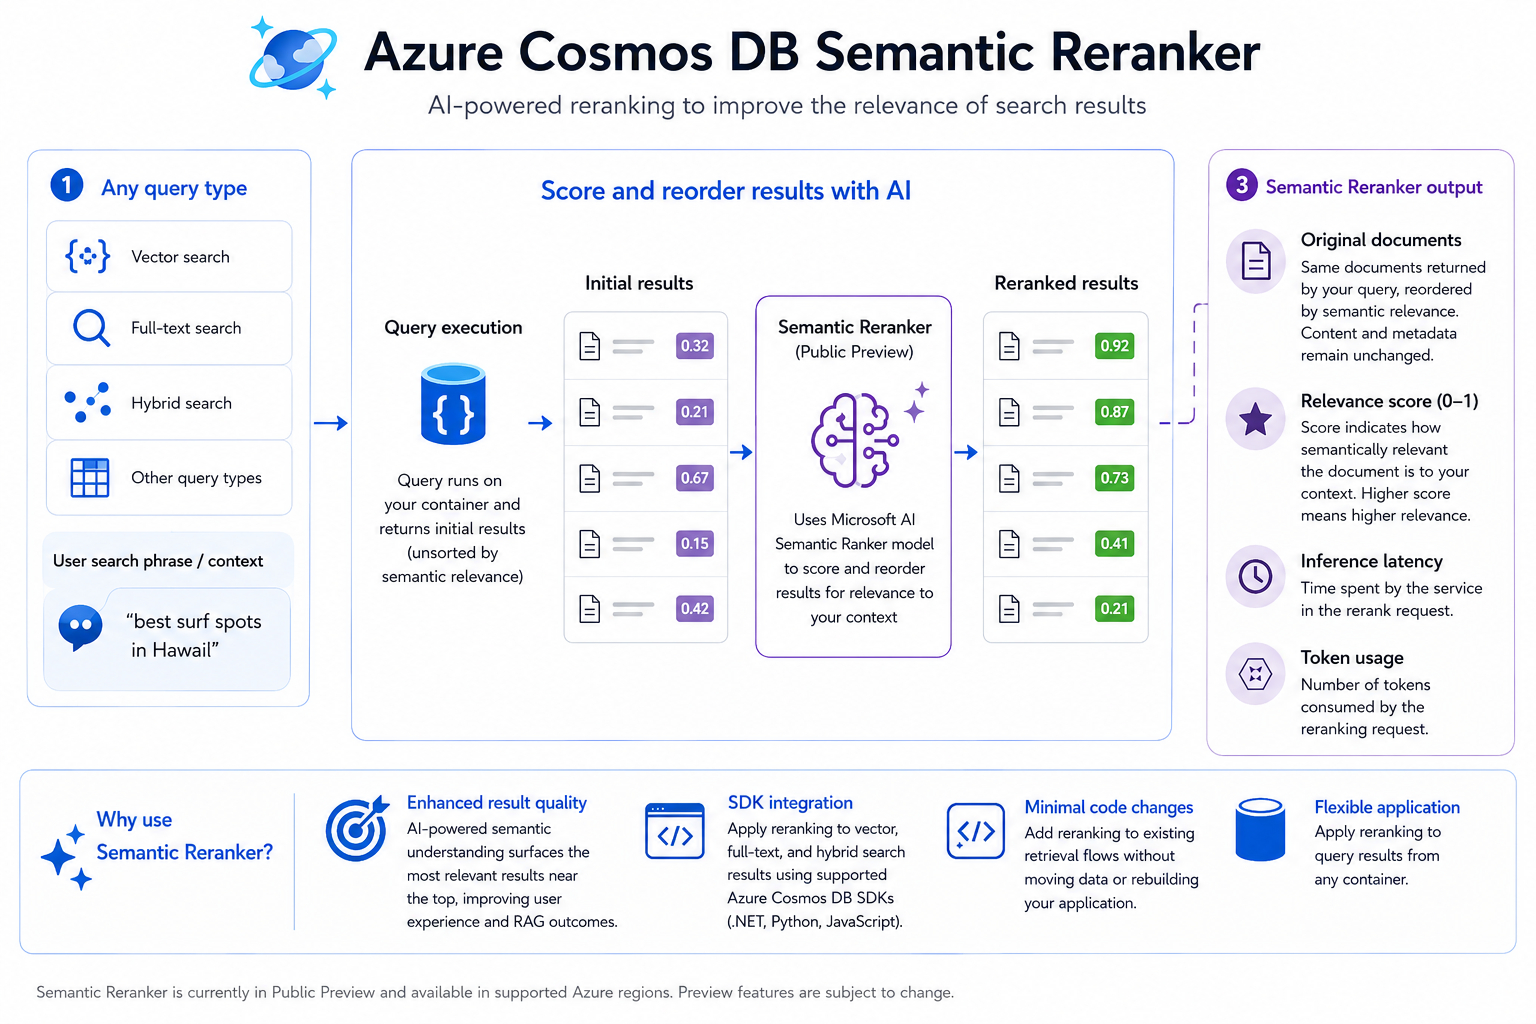
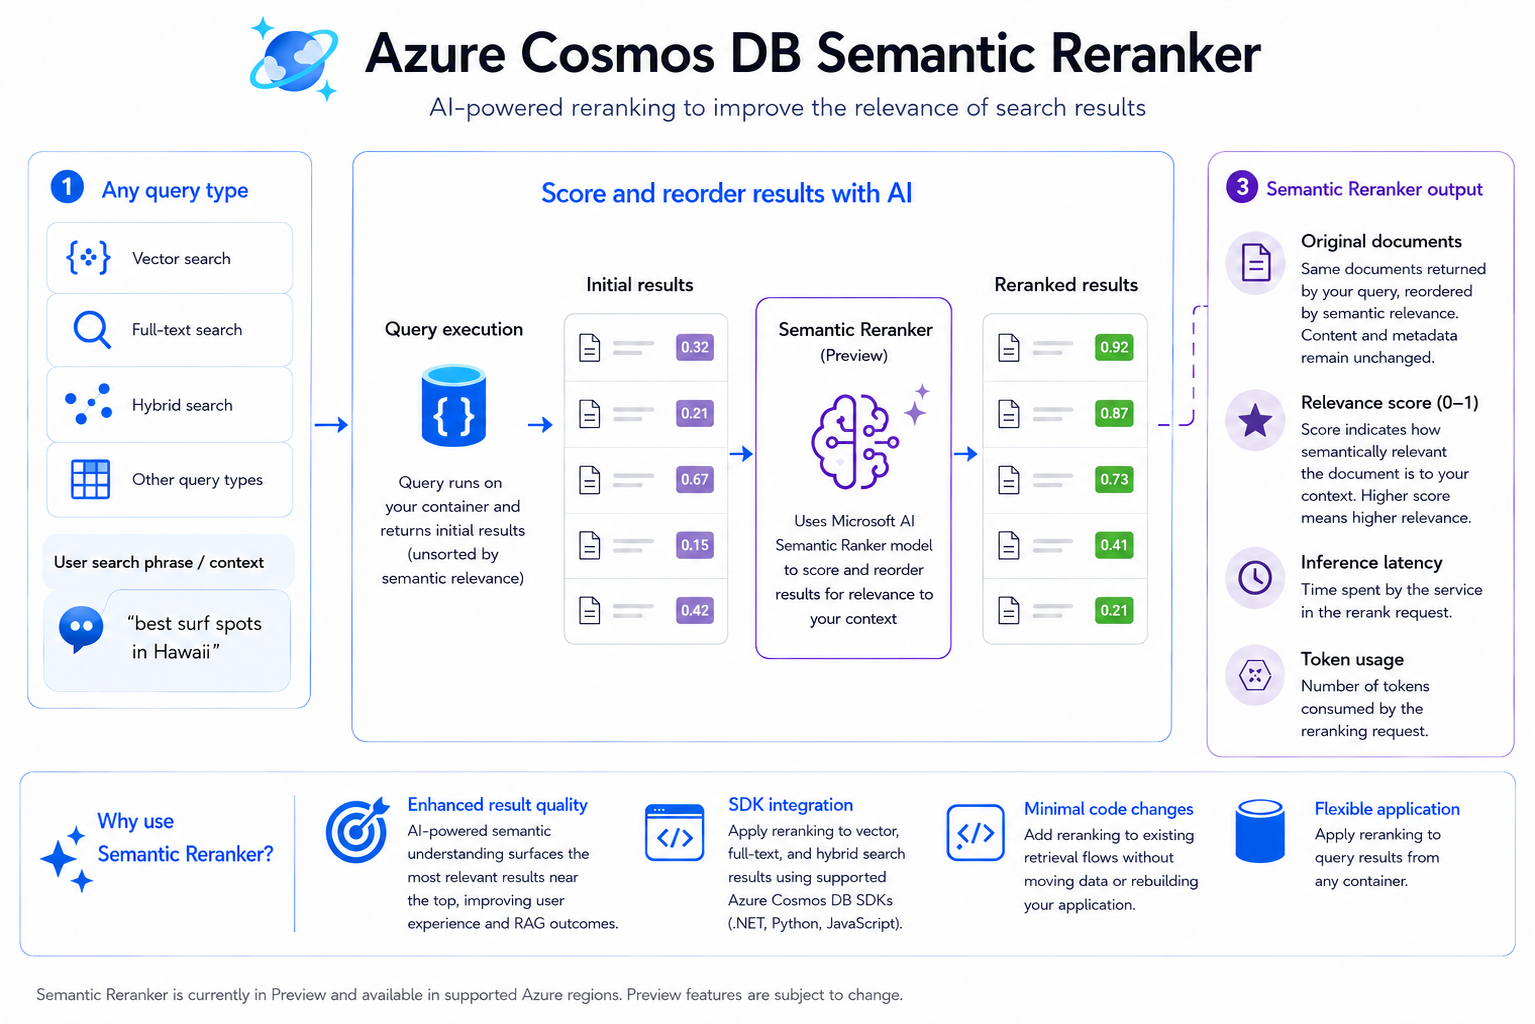
fixed image issues

diff --git a/azure/cosmos-db/gen-ai/agentic-retrieval.md b/azure/cosmos-db/gen-ai/agentic-retrieval.md
@@ -26,7 +26,7 @@ Unlike a basic one-shot RAG pipeline, this toolkit performs iterative retrieval.
 
 The repository includes scripts for document ingestion, Cosmos DB container setup, embedding generation, retrieval, answer generation, timing analysis, and sample evaluation workflows.
 
-:::image type="content" source="media/agentic-retrieval/infographic.png" lightbox="media/agentic-retrieval/infographic.png" alt-text="Infographic showing the Agentic Retrieval Toolkit workflow.":::
+:::image type="content" source="media/agentic-retrieval/info-graphic.png" lightbox="media/agentic-retrieval/info-graphic.png" alt-text="Infographic showing the Agentic Retrieval Toolkit workflow.":::
 
 ## What the toolkit does
 
